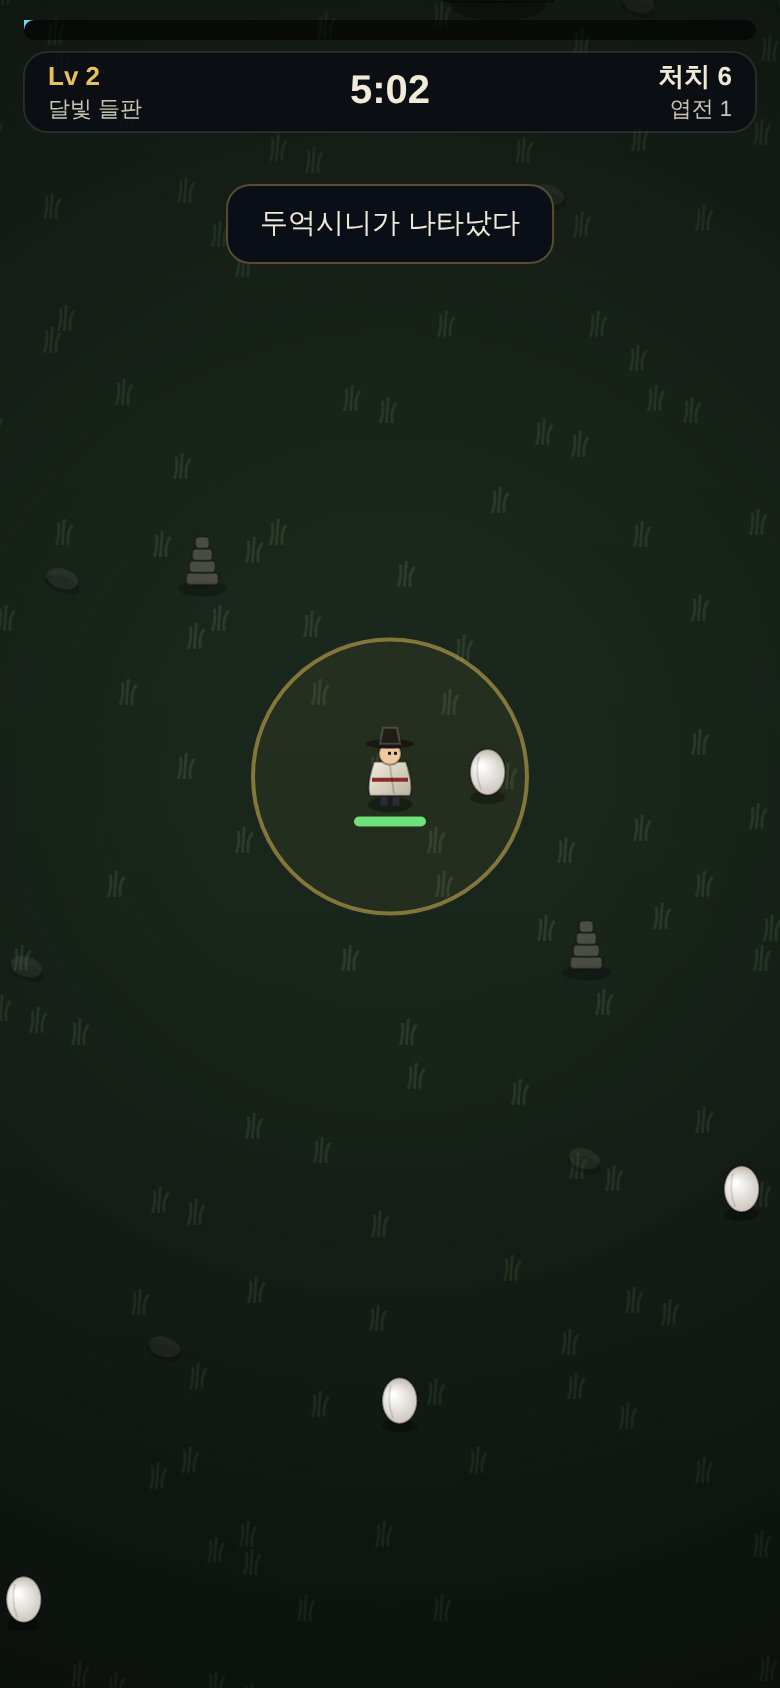
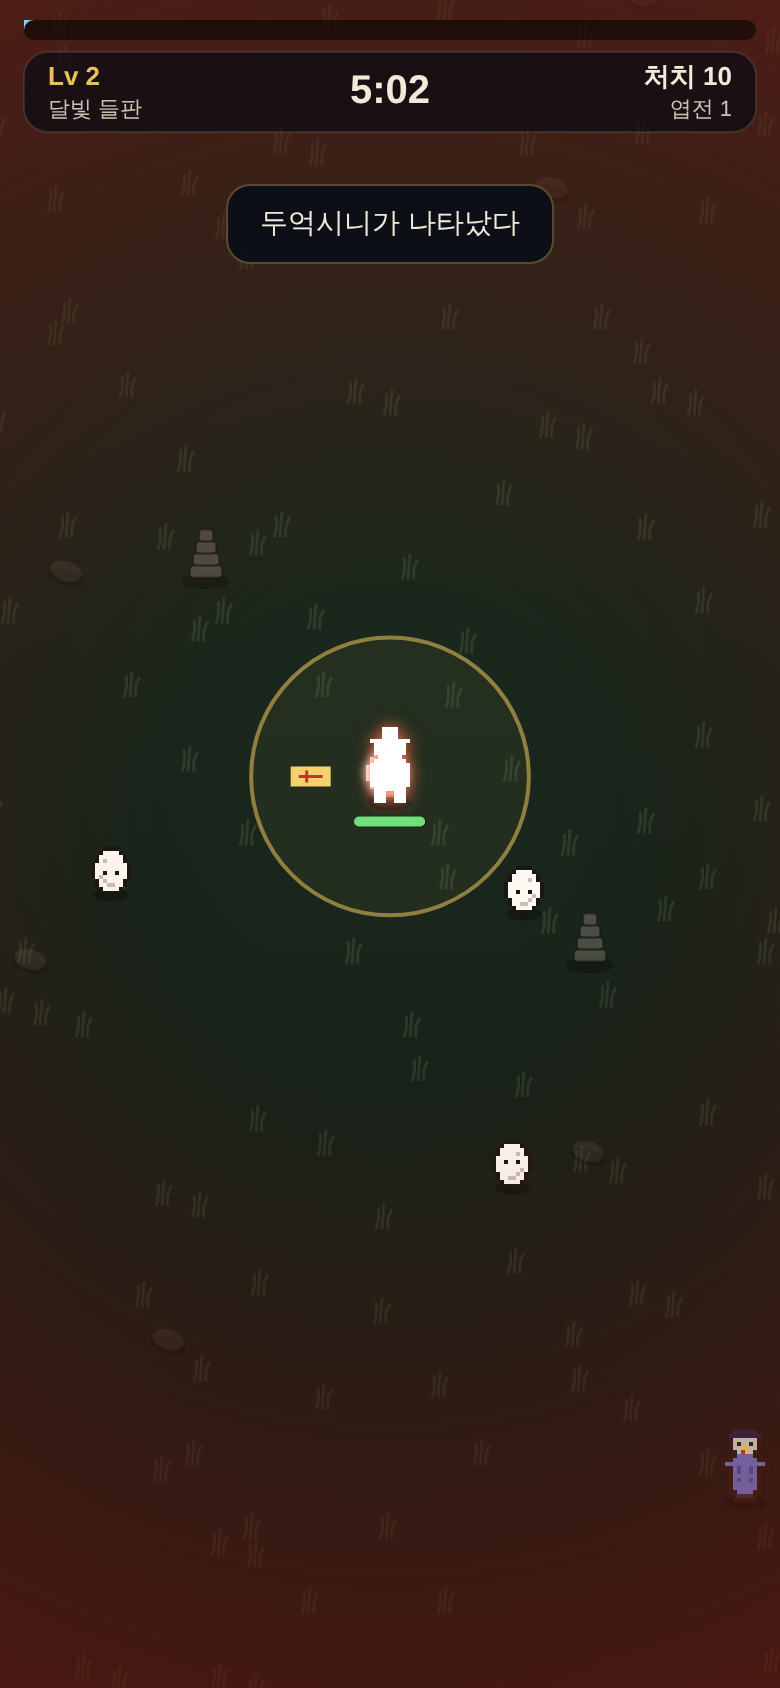
밤의 퇴마사 v2 (피드백 반영, 로컬 완료 · DB 패치 보류)
- 도트 스프라이트 전환: 퇴마사 3프레임, 달걀귀신·도깨비불·강시·두억시니·이무기 2프레임
- 방울 사운드: 2초 1회 저음으로 교체
- 검격: 초승달 밴드 + 궤적선 + 타격 스파크 + 미세 흔들림
- 적 이속 +40% 전원, 보스 넉백 면역 + 3초마다 돌진
- deployed/patch-v1-to-v2.sql (make-patch, 가드 md5 49bb9dbf → 기대 b8ffed6b)

Claude-Session: https://claude.ai/code/session_01RmJvEQYZMU41pMZMsu4AKq

diff --git a/games/night-exorcist/index.html b/games/night-exorcist/index.html
@@ -133,7 +133,7 @@ const SND = {
   kill() { const now = performance.now(); if (now - sndT < 45) return; sndT = now; noise(.07, .035, 2200); },
   talisman() { tone(1200, .06, 'square', .02, -400); },
   sword() { noise(.12, .05, 900); tone(300, .08, 'sine', .03, -120); },
-  bell() { tone(1760, .25, 'sine', .025); tone(2640, .18, 'sine', .012); },
+  bell() { const now = performance.now(); if (now - (SND._bellT || 0) < 2000) return; SND._bellT = now; tone(392, .5, 'sine', .03); tone(588, .4, 'sine', .012); },
   hurt() { tone(110, .15, 'sawtooth', .05, -40); },
   levelup() { [523, 659, 784, 1047].forEach((f, i) => setTimeout(() => tone(f, .3, 'triangle', .06), i * 80)); },
   boss() { tone(65, 1.2, 'sawtooth', .07, -20); noise(.8, .05, 200); },
@@ -144,13 +144,13 @@ const SND = {
 
 // ───────── 데이터: 적·무기·패시브 ─────────
 const ENEMY = {
-  egg:      { name:'달걀귀신', hp:1.0, spd:52, r:11, xp:1, col:'#f0e9dc', from:0 },
-  fire:     { name:'도깨비불', hp:0.5, spd:95, r:9, xp:1, col:'#6fd3ff', from:60 },
-  jiangshi: { name:'강시',     hp:2.6, spd:62, r:13, xp:3, col:'#6a8bd8', from:150, hop:true },
-  water:    { name:'물귀신',   hp:1.6, spd:70, r:12, xp:2, col:'#8fd8c8', from:90 },
-  gumiho:   { name:'구미호',   hp:3.5, spd:80, r:14, xp:4, col:'#ffb36b', from:200 },
-  boss1:    { name:'두억시니', hp:C.BOSS1_HP, spd:58, r:30, xp:40, col:'#c0463a', boss:true },
-  boss2:    { name:'이무기',   hp:C.BOSS2_HP, spd:66, r:38, xp:120, col:'#3fa06a', boss:true },
+  egg:      { name:'달걀귀신', hp:1.0, spd:74, r:11, xp:1, col:'#f0e9dc', from:0 },
+  fire:     { name:'도깨비불', hp:0.5, spd:125, r:9, xp:1, col:'#6fd3ff', from:60 },
+  jiangshi: { name:'강시',     hp:2.6, spd:84, r:13, xp:3, col:'#6a8bd8', from:150, hop:true },
+  water:    { name:'물귀신',   hp:1.6, spd:92, r:12, xp:2, col:'#8fd8c8', from:90 },
+  gumiho:   { name:'구미호',   hp:3.5, spd:108, r:14, xp:4, col:'#ffb36b', from:200 },
+  boss1:    { name:'두억시니', hp:C.BOSS1_HP, spd:70, r:30, xp:40, col:'#c0463a', boss:true },
+  boss2:    { name:'이무기',   hp:C.BOSS2_HP, spd:80, r:38, xp:120, col:'#3fa06a', boss:true },
 };
 const WEAPONS = [
   { id:'talisman', name:'부적', desc:'가장 가까운 요괴에게 날아가 꿰뚫는다', cd:.75, dmg:11, spd:340, pierce:1, max:5, up:'피해 +25% · 관통 +1' },
@@ -206,7 +206,7 @@ const rangeOf = w => w.range * Math.pow(1.12, (P.w[w.id] || 1) - 1);
 // ───────── 적 ─────────
 function spawn(type, boss) {
   const d = ENEMY[type], a = Math.random() * 6.283, R = Math.hypot(W, H) * .55 + 30;
-  acquire(E, E_FREE, o => { o.type = type; o.d = d; o.x = P.x + Math.cos(a) * R; o.y = P.y + Math.sin(a) * R; o.hp = enemyHp(S.t) * d.hp; o.maxhp = o.hp; o.r = d.r; o.hit = 0; o.hop = Math.random() * 6.28; o.slow = 0; o.kx = 0; o.ky = 0; o.boss = !!boss; o.ph = Math.random() * 6.28; });
+  acquire(E, E_FREE, o => { o.type = type; o.d = d; o.x = P.x + Math.cos(a) * R; o.y = P.y + Math.sin(a) * R; o.hp = enemyHp(S.t) * d.hp; o.maxhp = o.hp; o.r = d.r; o.hit = 0; o.hop = Math.random() * 6.28; o.slow = 0; o.kx = 0; o.ky = 0; o.boss = !!boss; o.ph = Math.random() * 6.28; o.chargeT = 3; o.charging = 0; });
 }
 function updateEnemies(dt) {
   // 스폰
@@ -220,6 +220,7 @@ function updateEnemies(dt) {
   for (let i = E.length - 1; i >= 0; i--) {
     const o = E[i]; const dx = P.x - o.x, dy = P.y - o.y, dist = Math.hypot(dx, dy) || 1;
     let sp = o.d.spd * (o.slow > 0 ? 1 - .2 : 1); if (o.d.hop) { o.hop += dt * 5; sp *= Math.max(0, Math.sin(o.hop)) * 2.2; }
+    if (o.boss) { o.chargeT -= dt; if (o.chargeT <= 0) { o.charging = .7; o.chargeT = 3.2 + Math.random(); SND.boss(); } if (o.charging > 0) { o.charging -= dt; sp *= 3.2; } }   // 보스: 3초마다 돌진
     o.x += dx / dist * sp * dt + o.kx * dt; o.y += dy / dist * sp * dt + o.ky * dt; o.kx *= .85; o.ky *= .85;
     if (o.slow > 0) o.slow -= dt; if (o.hit > 0) o.hit -= dt;
     // 분리
@@ -232,7 +233,7 @@ function updateEnemies(dt) {
   if (contacts && S.hitT > 0 && Math.random() < dt * 6) SND.hurt();
 }
 function hurtEnemy(o, dmg, kx, ky) {
-  o.hp -= dmg; o.hit = .12; o.kx += kx; o.ky += ky;
+  o.hp -= dmg; o.hit = .12; if (!o.boss) { o.kx += kx; o.ky += ky; }   // 보스는 넉백 면역
   if (o.hp <= 0) { kill(o); return true; } return false;
 }
 function kill(o) {
@@ -258,8 +259,8 @@ function updateWeapons(dt) {
       SND.talisman();
     } else if (w.id === 'sword') {
       WCD[w.id] = w.cd * cdMul(); const a = Math.atan2(P.dy, P.dx), R = rangeOf(w), arc = w.arc + (lv - 1) * .12, dmg = dmgOf(w);
-      SLASH.push({ x:P.x, y:P.y, a, R, arc, t:.22 }); SND.sword();
-      for (let i = E.length - 1; i >= 0; i--) { const o = E[i], dx = o.x - P.x, dy = o.y - P.y, d = Math.hypot(dx, dy); if (d > R + o.r) continue; let da = Math.atan2(dy, dx) - a; da = Math.atan2(Math.sin(da), Math.cos(da)); if (Math.abs(da) <= arc / 2) hurtEnemy(o, dmg, dx / d * 120, dy / d * 120); }
+      SLASH.push({ x:P.x, y:P.y, a, R, arc, t:.22 }); SND.sword(); S.shake = Math.max(S.shake, 1.5);
+      for (let i = E.length - 1; i >= 0; i--) { const o = E[i], dx = o.x - P.x, dy = o.y - P.y, d = Math.hypot(dx, dy); if (d > R + o.r) continue; let da = Math.atan2(dy, dx) - a; da = Math.atan2(Math.sin(da), Math.cos(da)); if (Math.abs(da) <= arc / 2) { hurtEnemy(o, dmg, dx / d * 120, dy / d * 120); burst(o.x, o.y, 3, '#fff2c0', 90); } }
     } else if (w.id === 'bell') {
       WCD[w.id] = w.cd * cdMul(); const R = rangeOf(w), dmg = dmgOf(w); let any = false;
       for (let i = E.length - 1; i >= 0; i--) { const o = E[i], d = Math.hypot(o.x - P.x, o.y - P.y); if (d <= R + o.r) { any = true; o.slow = .6; hurtEnemy(o, dmg, 0, 0); } }
@@ -320,6 +321,39 @@ function fx(dt) {
 function burst(x, y, n, col, sp) { for (let i = 0; i < n; i++) { const a = Math.random() * 6.283, s = Math.random() * sp; FX.push({ x, y, vx:Math.cos(a) * s, vy:Math.sin(a) * s, life:.4 + Math.random() * .3, col, r:1.5 + Math.random() * 2 }); } }
 function float(x, y, txt, col, sz = 14) { FL.push({ x, y, txt, col, sz, life:1.1 }); }
 
+
+// ───────── 도트 스프라이트 (문자 격자 → 오프스크린 캔버스, 2x) ─────────
+const PAL = { D:'#6a1a12', d:'#a8352a', O:'#ff8a6a', T:'#fff', g:'#114a2a', M:'#3fa06a', m:'#8ff0b0', K:'#1a1612', H:'#221c17', S:'#f0c9a0', W:'#f4efe2', w:'#c9c0a8', R:'#8a2a2a', B:'#2b2a3a', E:'#fbf8f2', e:'#c8c0b4', L:'#bfeeff', l:'#4fa8e8', N:'#1a1f44', G:'#b8dcc0', Y:'#f2d26a', C:'#5a6fc0', c:'#3a4f9a', r:'#c0362a' };
+const GRIDS = {
+  hero: [[
+'............','....HHHH....','....HHHH....','....HHHH....','.HHHHHHHHHH.','..KSSSSSSK..','..KSKSSKSK..','..KSSSSSSK..','...KWWWWK...','..KWWWWWWK..','.KWWWWWWWWK.','.KWRRRRRRWK.','.KWWWWWWWWK.','.KWWWwWWWWK.','.KWWWwWWWWK.','.KWWWwWWWWK.','..KWWwWWWK..','..KBB..BBK..','..KBB..BBK..','..KKK..KKK..'],[
+'............','....HHHH....','....HHHH....','....HHHH....','.HHHHHHHHHH.','..KSSSSSSK..','..KSKSSKSK..','..KSSSSSSK..','...KWWWWK...','..KWWWWWWK..','.KWWWWWWWWK.','.KWRRRRRRWK.','.KWWWWWWWWK.','.KWWWwWWWWK.','.KWWWwWWWWK.','.KWWWwWWWWK.','..KWWwWWWK..','.KBB....BBK.','KBB......BBK','KKK......KKK'],[
+'............','....HHHH....','....HHHH....','....HHHH....','.HHHHHHHHHH.','..KSSSSSSK..','..KSKSSKSK..','..KSSSSSSK..','...KWWWWK...','..KWWWWWWK..','.KWWWWWWWWK.','.KWRRRRRRWK.','.KWWWWWWWWK.','.KWWWwWWWWK.','.KWWWwWWWWK.','.KWWWwWWWWK.','..KWWwWWWK..','...KBBBBK...','...KBBBBK...','...KKKKKK...']],
+  egg: [[
+'...KKKK...','..KEEEEK..','.KEEEEEEK.','.KEeEEEEK.','KEEEEEEEEK','KEEKEEKEEK','KEEEEEEEEK','KEeEEEEEEK','.KEeEEEEK.','.KEEeeEEK.','..KEEEEK..','...KKKK...'],[
+'...KKKK...','..KEEEEK..','.KEEEEEEK.','.KEeEEEEK.','KEEEEEEEEK','KEEEEEEEEK','KEEKEEKEEK','KEeEEEEEEK','.KEeEEEEK.','.KEEeeEEK.','..KEEEEK..','...KKKK...']],
+  fire: [[
+'....L...','...LL...','..LLlL..','..LlLL..','.LLEELL.','.LEEEEL.','LLEEEELL','LLEKEKLL','.LEEEEL.','.LLEELL.','..LLLL..','...LL...'],[
+'...L....','...LL...','..LlLL..','..LLlL..','.LLEELL.','.LEEEEL.','LLEEEELL','LLEKEKLL','.LEEEEL.','.LLEELL.','..LLLL..','...ll...']],
+  jiangshi: [[
+'...NNNNNN...','..NNNNNNNN..','..KGGGGGGK..','..KGKGGKGK..','..KGGYYGGK..','...KGYrGK...','...KCCCCK...','KKKCCCCCCKKK','KCCCCCCCCCCK','KKKCcCCcCKKK','..KCcCCcCK..','..KCCCCCCK..','..KCcCCcCK..','..KCCCCCCK..','..KCCCCCCK..','..KKCCCCKK..','..KBB..BBK..','..KKK..KKK..'],[
+'...NNNNNN...','..NNNNNNNN..','..KGGGGGGK..','..KGKGGKGK..','..KGGYYGGK..','...KGYrGK...','...KCCCCK...','KKKCCCCCCKKK','KCCCCCCCCCCK','KKKCcCCcCKKK','..KCcCCcCK..','..KCCCCCCK..','..KCcCCcCK..','..KCCCCCCK..','..KCCCCCCK..','..KKCCCCKK..','...KBBBBK...','...KKKKKK...']],
+  boss1: [[
+'..KK............KK..','.KDDK..........KDDK.','.KDDDK........KDDDK.','.KDDDDKKKKKKKKDDDDK.','.KDDDddddddddddDDDK.','.KDdddddddddddddddK.','KDddddddddddddddddDK','KDddYYddddddddYYdddK','KDddYKYddddddYKYdddK','KDddYYddddddddYYdddK','KDdddddddddddddddddK','KDdddddddddddddddddK','KDddKTTTTTTTTTTKdddK','KDddKTKTKTKTKTKKdddK','KDdddKKKKKKKKKKddddK','.KDdddddddddddddddK.','.KDDddddddddddddDDK.','..KDDDDDDDDDDDDDDK..','...KKKKKKKKKKKKKK...','....................'],[
+'..KK............KK..','.KDDK..........KDDK.','.KDDDK........KDDDK.','.KDDDDKKKKKKKKDDDDK.','.KDDDddddddddddDDDK.','.KDdddddddddddddddK.','KDddddddddddddddddDK','KDddYYddddddddYYdddK','KDddKYYddddddYYKdddK','KDddYYddddddddYYdddK','KDdddddddddddddddddK','KDdddddddddddddddddK','KDddKTTTTTTTTTTKdddK','KDddKKTKTKTKTKTKdddK','KDdddKKKKKKKKKKddddK','.KDdddddddddddddddK.','.KDDddddddddddddDDK.','..KDDDDDDDDDDDDDDK..','...KKKKKKKKKKKKKK...','....................']],
+  boss2: [[
+'......KKKKKKKK......','....KKMMMMMMMMKK....','...KMMmmmmmmmmMMK...','..KMmmmmmmmmmmmmMK..','.KMmmYYmmmmmmYYmmMK.','.KMmmYKmmmmmmKYmmMK.','KMmmmmmmmmmmmmmmmmMK','KMmmmmmmmmmmmmmmmmMK','KMmmmKKKKKKKKKKmmmMK','KMmmmKTTKTTKTTKmmmMK','.KMmmmKKKKKKKKmmmMK.','.KMMmmmmmmmmmmmmMMK.','..KgMMMMMMMMMMMMgK..','..KggMMMMMMMMMMggK..','...KgggMMMMMMgggK...','...KKggggggggggKK...','....KgggggggggK.....','....KKgggggggKK.....','.....KKKKKKKKK......','....................'],[
+'......KKKKKKKK......','....KKMMMMMMMMKK....','...KMMmmmmmmmmMMK...','..KMmmmmmmmmmmmmMK..','.KMmmYYmmmmmmYYmmMK.','.KMmmKYmmmmmmYKmmMK.','KMmmmmmmmmmmmmmmmmMK','KMmmmmmmmmmmmmmmmmMK','KMmmmKKKKKKKKKKmmmMK','KMmmmKTTKTTKTTKmmmMK','.KMmmmKKKKKKKKmmmMK.','.KMMmmmmmmmmmmmmMMK.','..KgMMMMMMMMMMMMgK..','..KggMMMMMMMMMMggK..','...KgggMMMMMMgggK...','....KKggggggggKK....','.....KgggggggggK....','.....KKgggggggKK....','......KKKKKKKKK.....','....................']],
+};
+const SPRITES = {}; const PX = 2;
+function sprite(name, frame, flash) {
+  const key = name + frame + (flash ? 'f' : ''); if (SPRITES[key]) return SPRITES[key];
+  const g = GRIDS[name][frame % GRIDS[name].length], w = g[0].length, h = g.length, c = document.createElement('canvas'); c.width = w * PX; c.height = h * PX; const x = c.getContext('2d');
+  for (let r = 0; r < h; r++) for (let q = 0; q < w; q++) { const ch = g[r][q]; if (ch === '.') continue; x.fillStyle = flash ? '#ffffff' : PAL[ch]; x.fillRect(q * PX, r * PX, PX, PX); }
+  return SPRITES[key] = c;
+}
+function blit(name, frame, x, y, flip, flash, scale = 1) { const c = sprite(name, frame, flash); ctx.save(); ctx.translate(x, y); if (flip) ctx.scale(-1, 1); ctx.imageSmoothingEnabled = false; ctx.drawImage(c, -c.width * scale / 2, -c.height * scale, c.width * scale, c.height * scale); ctx.restore(); }
+
 // ───────── 그리기 ─────────
 function sx(x) { return x - cam.x + W / 2; } function sy(y) { return y - cam.y + H * .46; }
 function drawGround(st) {
@@ -337,34 +371,29 @@ function drawGround(st) {
   const v = ctx.createRadialGradient(W / 2, H * .46, Math.min(W, H) * .25, W / 2, H * .46, Math.max(W, H) * .75); v.addColorStop(0, 'rgba(0,0,0,0)'); v.addColorStop(1, `rgba(0,0,0,${.55 + night * .3})`); ctx.fillStyle = v; ctx.fillRect(0, 0, W, H);
 }
 function drawPlayer(x, y, t) {
-  const bob = P.moving ? Math.sin(P.walk) * 2 : Math.sin(t * 2) * .8, lean = P.moving ? P.dx * .12 : 0, flip = P.dx < 0 ? -1 : 1;
-  ctx.save(); ctx.translate(x, y + bob); ctx.rotate(lean); ctx.scale(flip, 1);
-  if (S.hitT > 0) { ctx.shadowColor = '#ff6a4a'; ctx.shadowBlur = 16; }
-  ctx.fillStyle = 'rgba(0,0,0,.35)'; ctx.beginPath(); ctx.ellipse(0, 14 - bob, 11, 4, 0, 0, 6.283); ctx.fill();
-  const leg = P.moving ? Math.sin(P.walk) * 4 : 0; ctx.strokeStyle = '#2b2a3a'; ctx.lineWidth = 3.5; ctx.beginPath(); ctx.moveTo(-3, 6); ctx.lineTo(-3 - leg, 14); ctx.moveTo(3, 6); ctx.lineTo(3 + leg, 14); ctx.stroke();
-  const rg = ctx.createLinearGradient(-10, -10, 10, 12); rg.addColorStop(0, '#f4efe2'); rg.addColorStop(1, '#b8b09a'); ctx.fillStyle = rg; // 도포
-  ctx.beginPath(); ctx.moveTo(-8, -8); ctx.quadraticCurveTo(-12, 4, -10, 9); ctx.lineTo(10, 9); ctx.quadraticCurveTo(12, 4, 8, -8); ctx.closePath(); ctx.fill(); ctx.strokeStyle = 'rgba(0,0,0,.4)'; ctx.lineWidth = 1; ctx.stroke();
-  ctx.strokeStyle = '#8a2a2a'; ctx.lineWidth = 2; ctx.beginPath(); ctx.moveTo(-9, 1); ctx.lineTo(9, 1); ctx.stroke();  // 띠
-  ctx.strokeStyle = 'rgba(0,0,0,.18)'; ctx.lineWidth = 1; ctx.beginPath(); ctx.moveTo(0, -6); ctx.lineTo(2, 8); ctx.stroke();
-  ctx.fillStyle = '#f0c9a0'; ctx.beginPath(); ctx.arc(0, -12, 5.5, 0, 6.283); ctx.fill(); ctx.strokeStyle = 'rgba(0,0,0,.35)'; ctx.stroke();   // 얼굴
-  ctx.fillStyle = '#1a1612'; ctx.beginPath(); ctx.ellipse(0, -17, 12, 2.4, 0, 0, 6.283); ctx.fill();   // 갓
-  ctx.fillStyle = '#221c17'; ctx.beginPath(); ctx.moveTo(-5, -17); ctx.lineTo(-3.5, -25); ctx.lineTo(3.5, -25); ctx.lineTo(5, -17); ctx.closePath(); ctx.fill(); ctx.strokeStyle = 'rgba(255,255,255,.18)'; ctx.stroke();
-  ctx.fillStyle = '#1a1612'; ctx.fillRect(2, -13, 1.5, 1.5); ctx.fillRect(-1, -13, 1.5, 1.5);
-  ctx.restore();
+  const bob = P.moving ? Math.abs(Math.sin(P.walk)) * 1.5 : Math.sin(t * 2) * .6, frame = P.moving ? (Math.floor(P.walk / 1.6) % 2 ? 1 : 2) : 0, flip = P.dx < 0;
+  ctx.fillStyle = 'rgba(0,0,0,.35)'; ctx.beginPath(); ctx.ellipse(x, y + 13, 11, 4, 0, 0, 6.283); ctx.fill();
+  if (S.hitT > 0) { ctx.save(); ctx.shadowColor = '#ff6a4a'; ctx.shadowBlur = 16; blit('hero', frame, x, y + 14 - bob, flip, Math.floor(S.hitT * 30) % 2 === 0); ctx.restore(); }
+  else blit('hero', frame, x, y + 14 - bob, flip);
 }
 function drawEnemy(o, x, y, t) {
   const d = o.d, r = o.r, hit = o.hit > 0;
   ctx.save(); ctx.translate(x, y);
   ctx.fillStyle = 'rgba(0,0,0,.3)'; ctx.beginPath(); ctx.ellipse(0, r * .95, r * .8, r * .3, 0, 0, 6.283); ctx.fill();
   if (hit) { ctx.shadowColor = '#fff'; ctx.shadowBlur = 10; }
-  if (o.type === 'egg') { const g = ctx.createRadialGradient(-r*.3, -r*.5, 1, 0, 0, r * 1.3); g.addColorStop(0, '#fff'); g.addColorStop(1, '#b9b0a4'); ctx.fillStyle = hit ? '#fff' : g; ctx.beginPath(); ctx.ellipse(0, -r * .2, r * .8, r * 1.05, 0, 0, 6.283); ctx.fill(); ctx.strokeStyle = 'rgba(0,0,0,.4)'; ctx.lineWidth = 1; ctx.stroke(); ctx.strokeStyle = 'rgba(0,0,0,.12)'; ctx.beginPath(); ctx.moveTo(-r*.4, -r*.9); ctx.quadraticCurveTo(-r*.6, -r*.2, -r*.3, r*.6); ctx.stroke(); }
-  else if (o.type === 'fire') { const f = 1 + Math.sin(t * 14 + o.ph) * .12; const g = ctx.createRadialGradient(0, -r*.2, 1, 0, -r*.2, r * 1.4); g.addColorStop(0, '#fff'); g.addColorStop(.35, '#9fe8ff'); g.addColorStop(1, 'rgba(60,140,220,0)'); ctx.fillStyle = g; ctx.beginPath(); ctx.moveTo(0, -r * 1.8 * f); ctx.quadraticCurveTo(r * 1.1, -r * .4, 0, r * .8); ctx.quadraticCurveTo(-r * 1.1, -r * .4, 0, -r * 1.8 * f); ctx.fill(); ctx.fillStyle = '#1a2a44'; ctx.fillRect(-3, -r*.5, 2, 2); ctx.fillRect(1, -r*.5, 2, 2); }
-  else if (o.type === 'jiangshi') { const hop = Math.max(0, Math.sin(o.hop)) * 6; ctx.translate(0, -hop); const g = ctx.createLinearGradient(-r, -r, r, r); g.addColorStop(0, '#7f9ff0'); g.addColorStop(1, '#3a4f9a'); ctx.fillStyle = hit ? '#fff' : g; ctx.beginPath(); ctx.moveTo(-r*.7, -r*.5); ctx.lineTo(r*.7, -r*.5); ctx.lineTo(r*.85, r); ctx.lineTo(-r*.85, r); ctx.closePath(); ctx.fill(); ctx.strokeStyle = 'rgba(0,0,0,.4)'; ctx.lineWidth = 1; ctx.stroke();
+  if (o.type === 'egg') { blit('egg', Math.floor(t * 4 + o.ph) % 2, 0, r * .95, o.x > P.x, hit); }
+  else if (o.type === 'fire') { blit('fire', Math.floor(t * 9 + o.ph) % 2, 0, r * .9 + Math.sin(t * 7 + o.ph) * 1.5, false, hit); }
+  else if (o.type === 'jiangshi') { const hop = Math.max(0, Math.sin(o.hop)) * 8; blit('jiangshi', hop > 2 ? 1 : 0, 0, r * 1.1 - hop, o.x > P.x, hit); }
+  else if (o.type === '_egg') { const g = ctx.createRadialGradient(-r*.3, -r*.5, 1, 0, 0, r * 1.3); g.addColorStop(0, '#fff'); g.addColorStop(1, '#b9b0a4'); ctx.fillStyle = hit ? '#fff' : g; ctx.beginPath(); ctx.ellipse(0, -r * .2, r * .8, r * 1.05, 0, 0, 6.283); ctx.fill(); ctx.strokeStyle = 'rgba(0,0,0,.4)'; ctx.lineWidth = 1; ctx.stroke(); ctx.strokeStyle = 'rgba(0,0,0,.12)'; ctx.beginPath(); ctx.moveTo(-r*.4, -r*.9); ctx.quadraticCurveTo(-r*.6, -r*.2, -r*.3, r*.6); ctx.stroke(); }
+  else if (o.type === '_fire') { const f = 1 + Math.sin(t * 14 + o.ph) * .12; const g = ctx.createRadialGradient(0, -r*.2, 1, 0, -r*.2, r * 1.4); g.addColorStop(0, '#fff'); g.addColorStop(.35, '#9fe8ff'); g.addColorStop(1, 'rgba(60,140,220,0)'); ctx.fillStyle = g; ctx.beginPath(); ctx.moveTo(0, -r * 1.8 * f); ctx.quadraticCurveTo(r * 1.1, -r * .4, 0, r * .8); ctx.quadraticCurveTo(-r * 1.1, -r * .4, 0, -r * 1.8 * f); ctx.fill(); ctx.fillStyle = '#1a2a44'; ctx.fillRect(-3, -r*.5, 2, 2); ctx.fillRect(1, -r*.5, 2, 2); }
+  else if (o.type === '_jiangshi') { const hop = Math.max(0, Math.sin(o.hop)) * 6; ctx.translate(0, -hop); const g = ctx.createLinearGradient(-r, -r, r, r); g.addColorStop(0, '#7f9ff0'); g.addColorStop(1, '#3a4f9a'); ctx.fillStyle = hit ? '#fff' : g; ctx.beginPath(); ctx.moveTo(-r*.7, -r*.5); ctx.lineTo(r*.7, -r*.5); ctx.lineTo(r*.85, r); ctx.lineTo(-r*.85, r); ctx.closePath(); ctx.fill(); ctx.strokeStyle = 'rgba(0,0,0,.4)'; ctx.lineWidth = 1; ctx.stroke();
     ctx.strokeStyle = '#2a3366'; ctx.lineWidth = 3; ctx.beginPath(); ctx.moveTo(-r*.5, -r*.1); ctx.lineTo(-r*1.3, -r*.1); ctx.moveTo(r*.5, -r*.1); ctx.lineTo(r*1.3, -r*.1); ctx.stroke(); // 팔 뻗음
     ctx.fillStyle = '#b8dcc0'; ctx.beginPath(); ctx.arc(0, -r*.95, r*.45, 0, 6.283); ctx.fill(); ctx.fillStyle = '#1a1f44'; ctx.fillRect(-r*.55, -r*1.5, r*1.1, r*.35); ctx.fillStyle = '#f2d26a'; ctx.fillRect(-r*.18, -r*1.15, r*.36, r*.7); ctx.fillStyle = '#c0362a'; ctx.fillRect(-r*.08, -r*1.05, r*.16, r*.5); }
   else if (o.type === 'water') { const g = ctx.createRadialGradient(0, 0, 1, 0, 0, r * 1.2); g.addColorStop(0, '#d4fff2'); g.addColorStop(1, '#2a7a6a'); ctx.fillStyle = hit ? '#fff' : g; ctx.beginPath(); ctx.arc(0, -r*.2, r * .9, 0, 6.283); ctx.fill(); ctx.strokeStyle = 'rgba(0,0,0,.35)'; ctx.stroke(); ctx.strokeStyle = '#1f4f45'; ctx.lineWidth = 2; for (let k = -1; k <= 1; k++) { ctx.beginPath(); ctx.moveTo(k * r * .4, -r * 1.1); ctx.quadraticCurveTo(k * r * .6, -r * .2, k * r * .35, r * .9); ctx.stroke(); } }
   else if (o.type === 'gumiho') { const g = ctx.createRadialGradient(0, -r*.3, 1, 0, 0, r * 1.2); g.addColorStop(0, '#ffe3c0'); g.addColorStop(1, '#c86a2a'); ctx.fillStyle = hit ? '#fff' : g; ctx.beginPath(); ctx.ellipse(0, 0, r * .9, r * .75, 0, 0, 6.283); ctx.fill(); ctx.strokeStyle = 'rgba(0,0,0,.35)'; ctx.stroke(); for (let k = 0; k < 5; k++) { const a = -2.6 - k * .35 + Math.sin(t * 3 + k) * .1; ctx.strokeStyle = '#f2a65a'; ctx.lineWidth = 3; ctx.beginPath(); ctx.moveTo(-r*.5, 0); ctx.quadraticCurveTo(Math.cos(a) * r * 1.5, Math.sin(a) * r * 1.5, Math.cos(a) * r * 2.1, Math.sin(a) * r * 2.1); ctx.stroke(); } ctx.fillStyle = '#c86a2a'; ctx.beginPath(); ctx.moveTo(-r*.6, -r*.5); ctx.lineTo(-r*.4, -r*1.2); ctx.lineTo(-r*.1, -r*.6); ctx.moveTo(r*.6, -r*.5); ctx.lineTo(r*.4, -r*1.2); ctx.lineTo(r*.1, -r*.6); ctx.fill(); }
-  else if (o.boss) { // 두억시니·이무기
+  else if (o.boss) { blit(o.type, Math.floor(t * 3) % 2, 0, r * .95, o.x > P.x, hit, o.type === 'boss1' ? 1.6 : 2.0); if (o.charging > 0) { ctx.strokeStyle = 'rgba(255,120,80,.7)'; ctx.lineWidth = 3; ctx.beginPath(); ctx.arc(0, 0, r * 1.25, 0, 6.283); ctx.stroke(); }
+    ctx.shadowBlur = 0; ctx.fillStyle = 'rgba(0,0,0,.6)'; ctx.fillRect(-r, -r - 14, r * 2, 6); ctx.fillStyle = o.type === 'boss1' ? '#ff6a4a' : '#5fe08a'; ctx.fillRect(-r, -r - 14, r * 2 * Math.max(0, o.hp / o.maxhp), 6); }
+  else if (o.type === '_boss') { // (벡터 보스 — 미사용)
     const g = ctx.createRadialGradient(-r*.3, -r*.4, 2, 0, 0, r * 1.3); g.addColorStop(0, o.type === 'boss1' ? '#ff8a6a' : '#8ff0b0'); g.addColorStop(1, o.type === 'boss1' ? '#6a1a12' : '#114a2a'); ctx.fillStyle = hit ? '#fff' : g;
     if (o.type === 'boss1') { ctx.beginPath(); ctx.moveTo(-r*.9, r*.9); ctx.lineTo(-r, -r*.3); ctx.lineTo(-r*.45, -r*1.1); ctx.lineTo(0, -r*.8); ctx.lineTo(r*.45, -r*1.1); ctx.lineTo(r, -r*.3); ctx.lineTo(r*.9, r*.9); ctx.closePath(); ctx.fill(); ctx.strokeStyle = 'rgba(0,0,0,.5)'; ctx.lineWidth = 2; ctx.stroke(); ctx.fillStyle = '#ffe36a'; ctx.beginPath(); ctx.arc(-r*.35, -r*.3, r*.13, 0, 6.283); ctx.arc(r*.35, -r*.3, r*.13, 0, 6.283); ctx.fill(); ctx.fillStyle = '#1a0a08'; ctx.beginPath(); ctx.arc(-r*.35, -r*.3, r*.06, 0, 6.283); ctx.arc(r*.35, -r*.3, r*.06, 0, 6.283); ctx.fill(); ctx.strokeStyle = '#fff'; ctx.lineWidth = 2; ctx.beginPath(); ctx.moveTo(-r*.4, r*.3); ctx.lineTo(r*.4, r*.3); ctx.stroke(); for (let k = -2; k <= 2; k++) { ctx.beginPath(); ctx.moveTo(k * r * .16, r * .3); ctx.lineTo(k * r * .16, r * .45); ctx.stroke(); } }
     else { for (let k = 4; k >= 0; k--) { const a = t * 2 + k * .9, cx = Math.cos(a) * r * .5 * (k / 4), cy = Math.sin(a * 1.3) * r * .4 * (k / 4); ctx.beginPath(); ctx.arc(cx, cy, r * (.9 - k * .12), 0, 6.283); ctx.fill(); ctx.strokeStyle = 'rgba(0,0,0,.45)'; ctx.lineWidth = 1.5; ctx.stroke(); } ctx.fillStyle = '#ffe36a'; ctx.beginPath(); ctx.ellipse(-r*.3, -r*.2, r*.16, r*.1, .4, 0, 6.283); ctx.ellipse(r*.3, -r*.2, r*.16, r*.1, -.4, 0, 6.283); ctx.fill(); ctx.strokeStyle = '#fff'; ctx.lineWidth = 2; ctx.beginPath(); ctx.moveTo(-r*.15, r*.35); ctx.lineTo(-r*.08, r*.6); ctx.moveTo(r*.15, r*.35); ctx.lineTo(r*.08, r*.6); ctx.stroke(); }
@@ -394,7 +423,12 @@ function draw() {
   const es = E.slice().sort((a, b) => a.y - b.y);
   for (const o of es) { const x = sx(o.x), y = sy(o.y); if (x < -60 || x > W + 60 || y < -60 || y > H + 60) continue; drawEnemy(o, x, y, t); }
   // 검격
-  for (const s of SLASH) { const a = s.t / .22; ctx.strokeStyle = `rgba(255,240,200,${a * .9})`; ctx.lineWidth = 6 * a + 2; ctx.beginPath(); ctx.arc(sx(s.x), sy(s.y), s.R * (1.1 - a * .2), s.a - s.arc / 2, s.a + s.arc / 2); ctx.stroke(); ctx.strokeStyle = `rgba(200,140,80,${a * .6})`; ctx.lineWidth = 2; ctx.stroke(); }
+  for (const s of SLASH) { const a = s.t / .22, k = 1 - a, cx = sx(s.x), cy = sy(s.y), R = s.R * (.85 + k * .3), a0 = s.a - s.arc / 2, a1 = s.a + s.arc / 2, sweep = a0 + (a1 - a0) * Math.min(1, k * 2.2);
+    ctx.save(); ctx.globalAlpha = a; const g = ctx.createRadialGradient(cx, cy, R * .45, cx, cy, R); g.addColorStop(0, 'rgba(255,245,210,0)'); g.addColorStop(.75, 'rgba(255,235,170,.55)'); g.addColorStop(1, 'rgba(255,255,255,.95)');
+    ctx.fillStyle = g; ctx.beginPath(); ctx.arc(cx, cy, R, a0, sweep); ctx.arc(cx, cy, R * .45, sweep, a0, true); ctx.closePath(); ctx.fill();
+    ctx.strokeStyle = 'rgba(255,255,255,.9)'; ctx.lineWidth = 2.5; ctx.beginPath(); ctx.arc(cx, cy, R, a0, sweep); ctx.stroke();
+    ctx.strokeStyle = 'rgba(255,220,150,.5)'; ctx.lineWidth = 1; for (let n = 1; n <= 3; n++) { ctx.beginPath(); ctx.arc(cx, cy, R * (.5 + n * .12), a0, sweep); ctx.stroke(); }
+    ctx.restore(); }
   // 투사체
   for (const b of B) { ctx.save(); ctx.translate(sx(b.x), sy(b.y)); ctx.rotate(b.a + 1.571); ctx.fillStyle = '#f2d26a'; ctx.fillRect(-5, -10, 10, 20); ctx.strokeStyle = '#c0362a'; ctx.lineWidth = 1.5; ctx.beginPath(); ctx.moveTo(0, -6); ctx.lineTo(0, 6); ctx.moveTo(-3, -2); ctx.lineTo(3, -2); ctx.stroke(); ctx.restore(); }
   drawPlayer(sx(P.x), sy(P.y), t);
